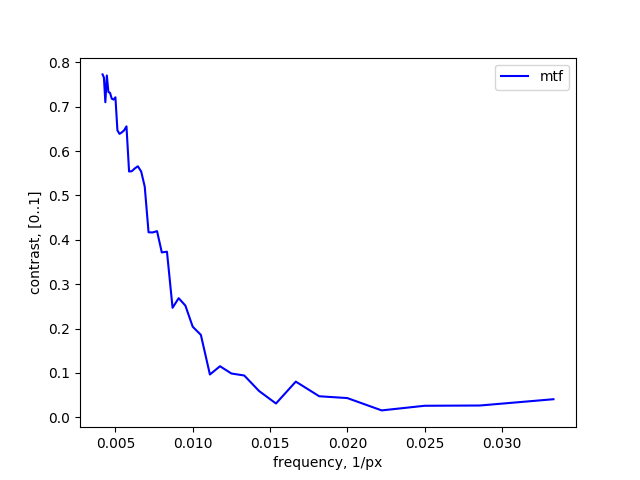
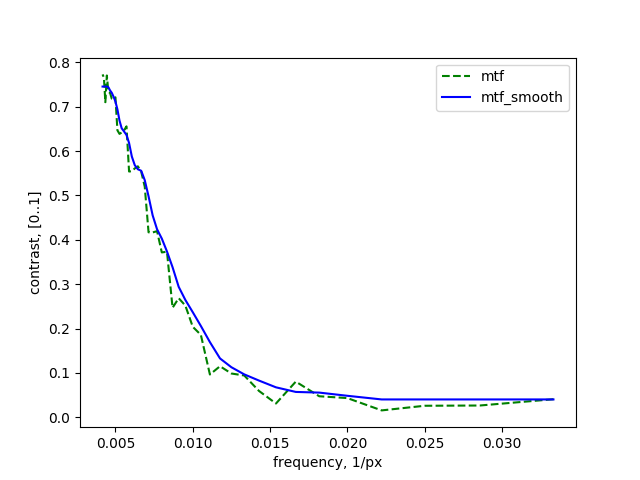
Smooth plot

diff --git a/table.py b/table.py
@@ -1,5 +1,18 @@
 import sys
 import matplotlib.pyplot as plt
+import numpy as np
+
+
+def smooth_triangle(data, degree):
+    triangle = np.array(list(range(degree)) + [degree] + list(range(degree)[::-1])) + 1
+    smoothed = []
+    for i in range(degree, len(data) - degree * 2):
+        point = data[i:i + len(triangle)] * triangle
+        smoothed.append(sum(point) / sum(triangle))
+    smoothed = [smoothed[0]] * int(degree + degree / 2) + smoothed
+    while len(smoothed) < len(data):
+        smoothed.append(smoothed[-1])
+    return smoothed
 
 
 def main():
@@ -15,8 +28,11 @@ def main():
         x.append(float(pair[0].strip()))
         y1.append(float(pair[1].strip()))
         j += 1
-    l1, = plt.plot(x, y1, 'b-')
-    plt.legend([l1], ["mtf"])
+    y = smooth_triangle(y1, 2)
+    l1, = plt.plot(x, y1, 'g--')
+    l2, = plt.plot(x, y, 'r-')
+
+    plt.legend([l1, l2], ["mtf", "mtf_smooth"])
     plt.xlabel("frequency, 1/px")
     plt.ylabel("contrast, [0..1]")
     plt.show()
